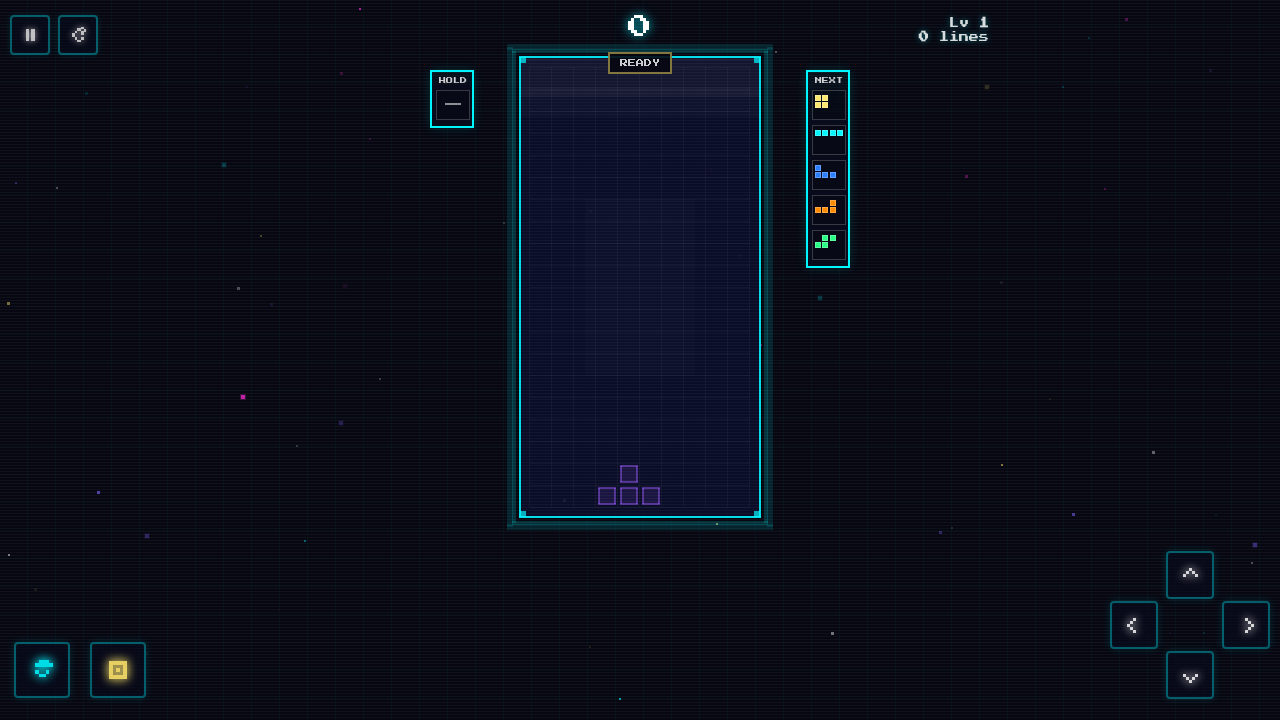
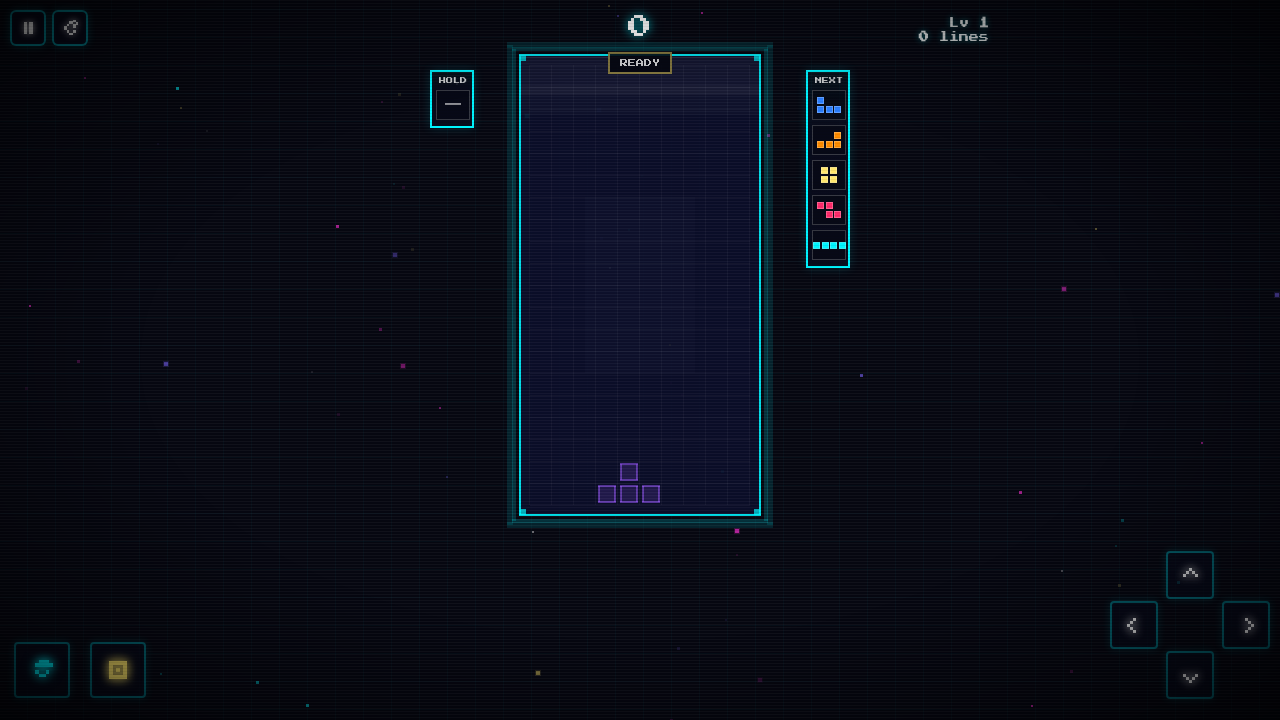
docs: rewrite README and update screenshots

diff --git a/README.md b/README.md
@@ -1,113 +1,72 @@
 <div align="center">
 
+<img src="docs/screenshot-desktop.png" width="100%" alt="Neon Tetris" />
+
 # Neon Tetris
 
-### A cyberpunk-themed Tetris with glowing visuals, particle effects, and satisfying synth audio.
+A Tetris clone that got out of hand.
 
-[![Play Now](https://img.shields.io/badge/Play-Live%20Demo-ff2bd6?style=for-the-badge)](https://tetris.pixpress.art)
-[![Build](https://img.shields.io/badge/build-passing-brightgreen?style=flat-square)]()
-[![License: MIT](https://img.shields.io/badge/License-MIT-yellow?style=flat-square)](LICENSE)
-
-<br/>
-
-| Desktop | Mobile |
-|---------|--------|
-| ![Desktop](docs/screenshot-desktop.png) | ![Mobile](docs/screenshot-mobile.png) |
+[![Play](https://img.shields.io/badge/▶_Play_Now-tetris.pixpress.art-ff2bd6?style=for-the-badge)](https://tetris.pixpress.art)
+&nbsp;
+[![License](https://img.shields.io/badge/License-MIT-222?style=for-the-badge)](LICENSE)
 
 </div>
 
 ---
 
-## Features
+Cyberpunk-themed Tetris with CRT scanlines, chromatic aberration, particle explosions, and a synthesized soundtrack. No audio files — every sound is generated on the fly via Web Audio API.
 
-| | |
-|---|---|
-| **Neon Glow Visuals** | Every tetromino radiates its own neon color with multi-layer glow effects |
-| **Particle Explosions** | Line clears, hard drops, and locks burst with sparks and light trails |
-| **Animated Background** | Drifting star field + scrolling cyberpunk grid create depth and atmosphere |
-| **T-Spin Detection** | Full 3-corner T-spin recognition with bonus scoring and purple flash |
-| **Perfect Clear** | Clear the entire board for a golden explosion and massive bonus |
-| **Combo System** | Chain line clears for escalating multipliers and rising audio pitch |
-| **Synth Audio** | Arpeggios, chords, and frequency sweeps — all generated in real-time |
-| **Responsive** | Touch controls on mobile, keyboard help panel on desktop |
-| **PWA Ready** | Install on any device, play offline |
-| **Accessible** | Keyboard-first, ARIA labels, reduced motion support |
+T-spin detection, perfect clear, combo chains. Ghost piece. Works on mobile.
+
+<div align="center">
+<img src="docs/screenshot-mobile.png" width="320" alt="Mobile view" />
+</div>
 
 ---
 
-## How to Play
-
-### Desktop (Keyboard)
+## Controls
 
 | Key | Action |
 |-----|--------|
-| `←` `→` | Move left / right |
-| `↑` or `X` | Rotate clockwise |
+| `← →` | Move |
+| `↑` / `X` | Rotate |
 | `↓` | Soft drop |
 | `Space` | Hard drop |
-| `C` or `Shift` | Hold piece |
-| `P` or `Esc` | Pause |
+| `C` / `Shift` | Hold |
+| `P` / `Esc` | Pause |
 
-### Mobile
+On mobile, use the on-screen D-pad.
 
-On-screen D-pad for movement, action buttons for rotate and hold.
+---
+
+## Stack
+
+Phaser 3 · TypeScript · Vite · Web Audio API · PWA
+
+---
+
+## Run locally
+
+```bash
+git clone https://github.com/DuongStark/Tetris.git
+cd Tetris
+npm install
+npm run dev
+```
 
 ---
 
 ## Scoring
 
-| Action | Points |
-|--------|--------|
-| Single | 100 x level |
-| Double | 300 x level |
-| Triple | 500 x level |
-| Tetris (4 lines) | 800 x level |
-| T-Spin | 400–1600 x level |
-| Perfect Clear | 1000 x level |
-| Combo | +50 per chain |
-| Hard Drop | +2 per cell |
-| Soft Drop | +1 per cell |
+| Move | Points |
+|------|--------|
+| Single | 100 × level |
+| Double | 300 × level |
+| Triple | 500 × level |
+| Tetris | 800 × level |
+| T-Spin | 400–1600 × level |
+| Perfect Clear | 1000 × level |
 
 ---
-
-## Tech Stack
-
-- **Phaser 3** — Canvas rendering and particle effects
-- **TypeScript** — Strict type safety
-- **Vite** — Fast dev server and optimized builds
-- **Web Audio API** — Synthesized sound effects (zero audio files)
-- **PWA** — Service worker for offline play
-
----
-
-## Getting Started
-
-```bash
-# Clone
-git clone https://github.com/DuongStark/Tetris.git
-cd Tetris
-
-# Install
-npm install
-
-# Dev server
-npm run dev
-
-# Run tests
-npm test
-
-# Production build
-npm run build
-```
-
----
-
-## Live Demo
-
-**[Play Neon Tetris](https://tetris.pixpress.art)**
-
----
-
-## License
 
 MIT
